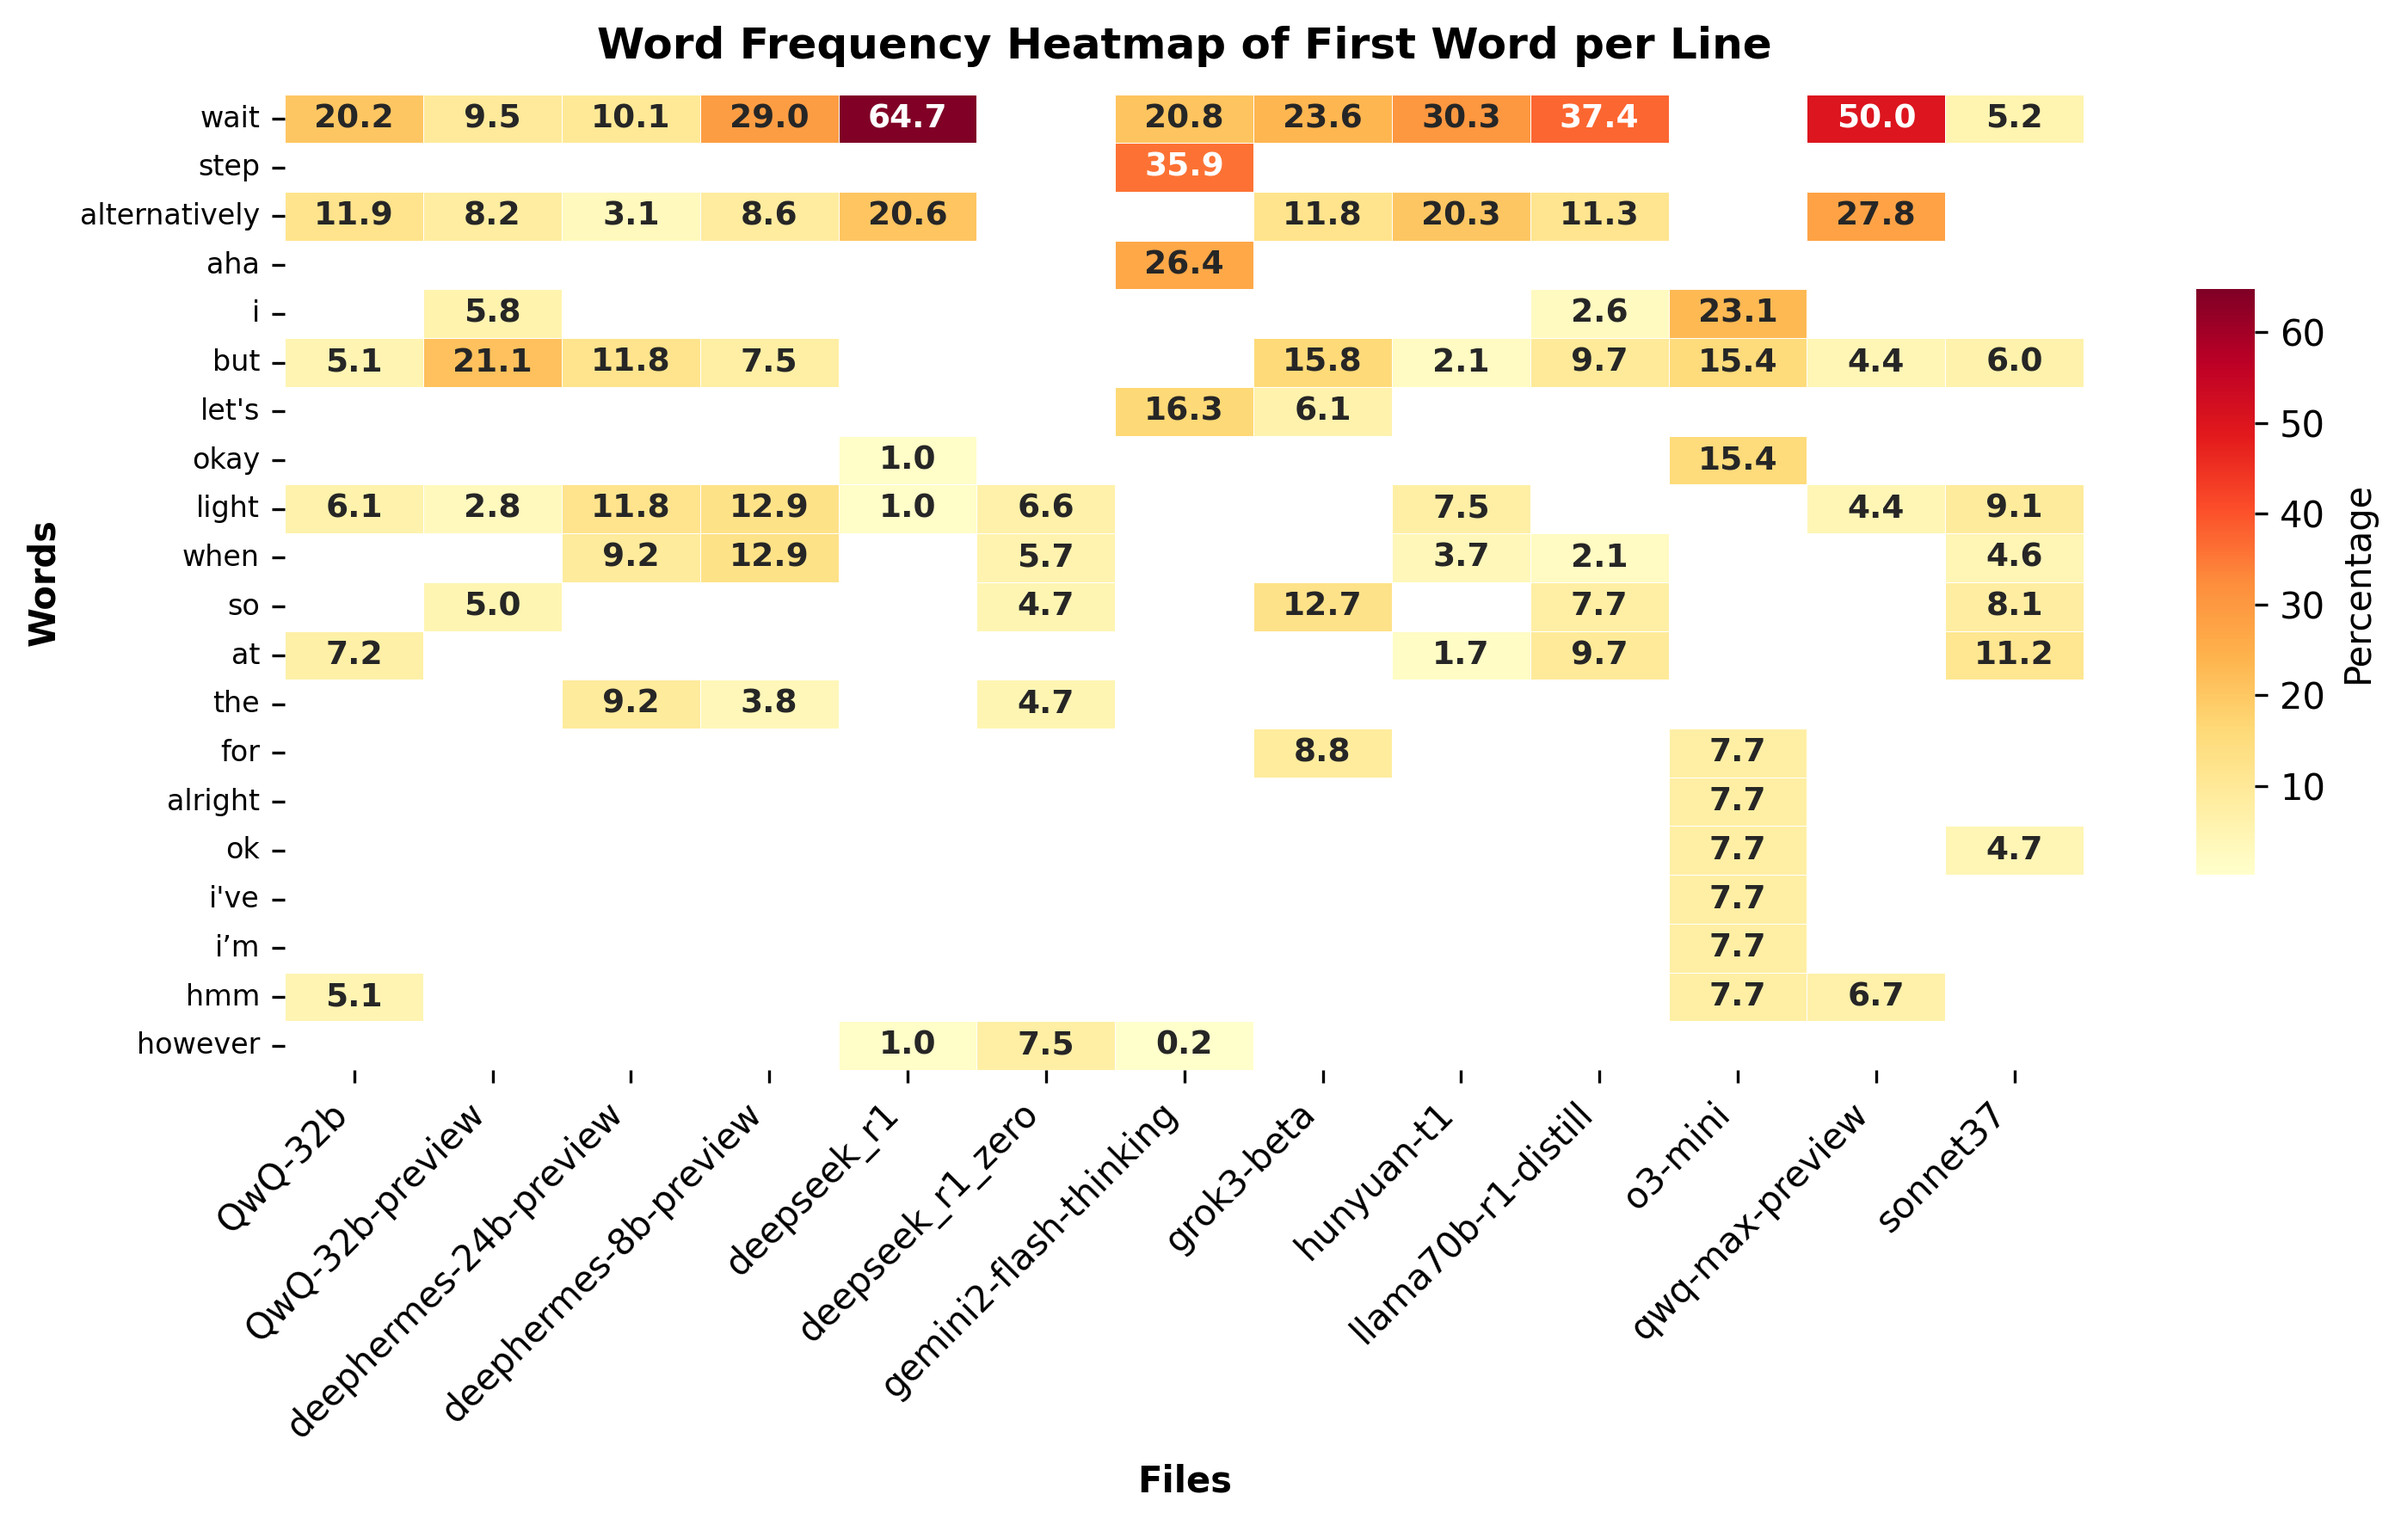
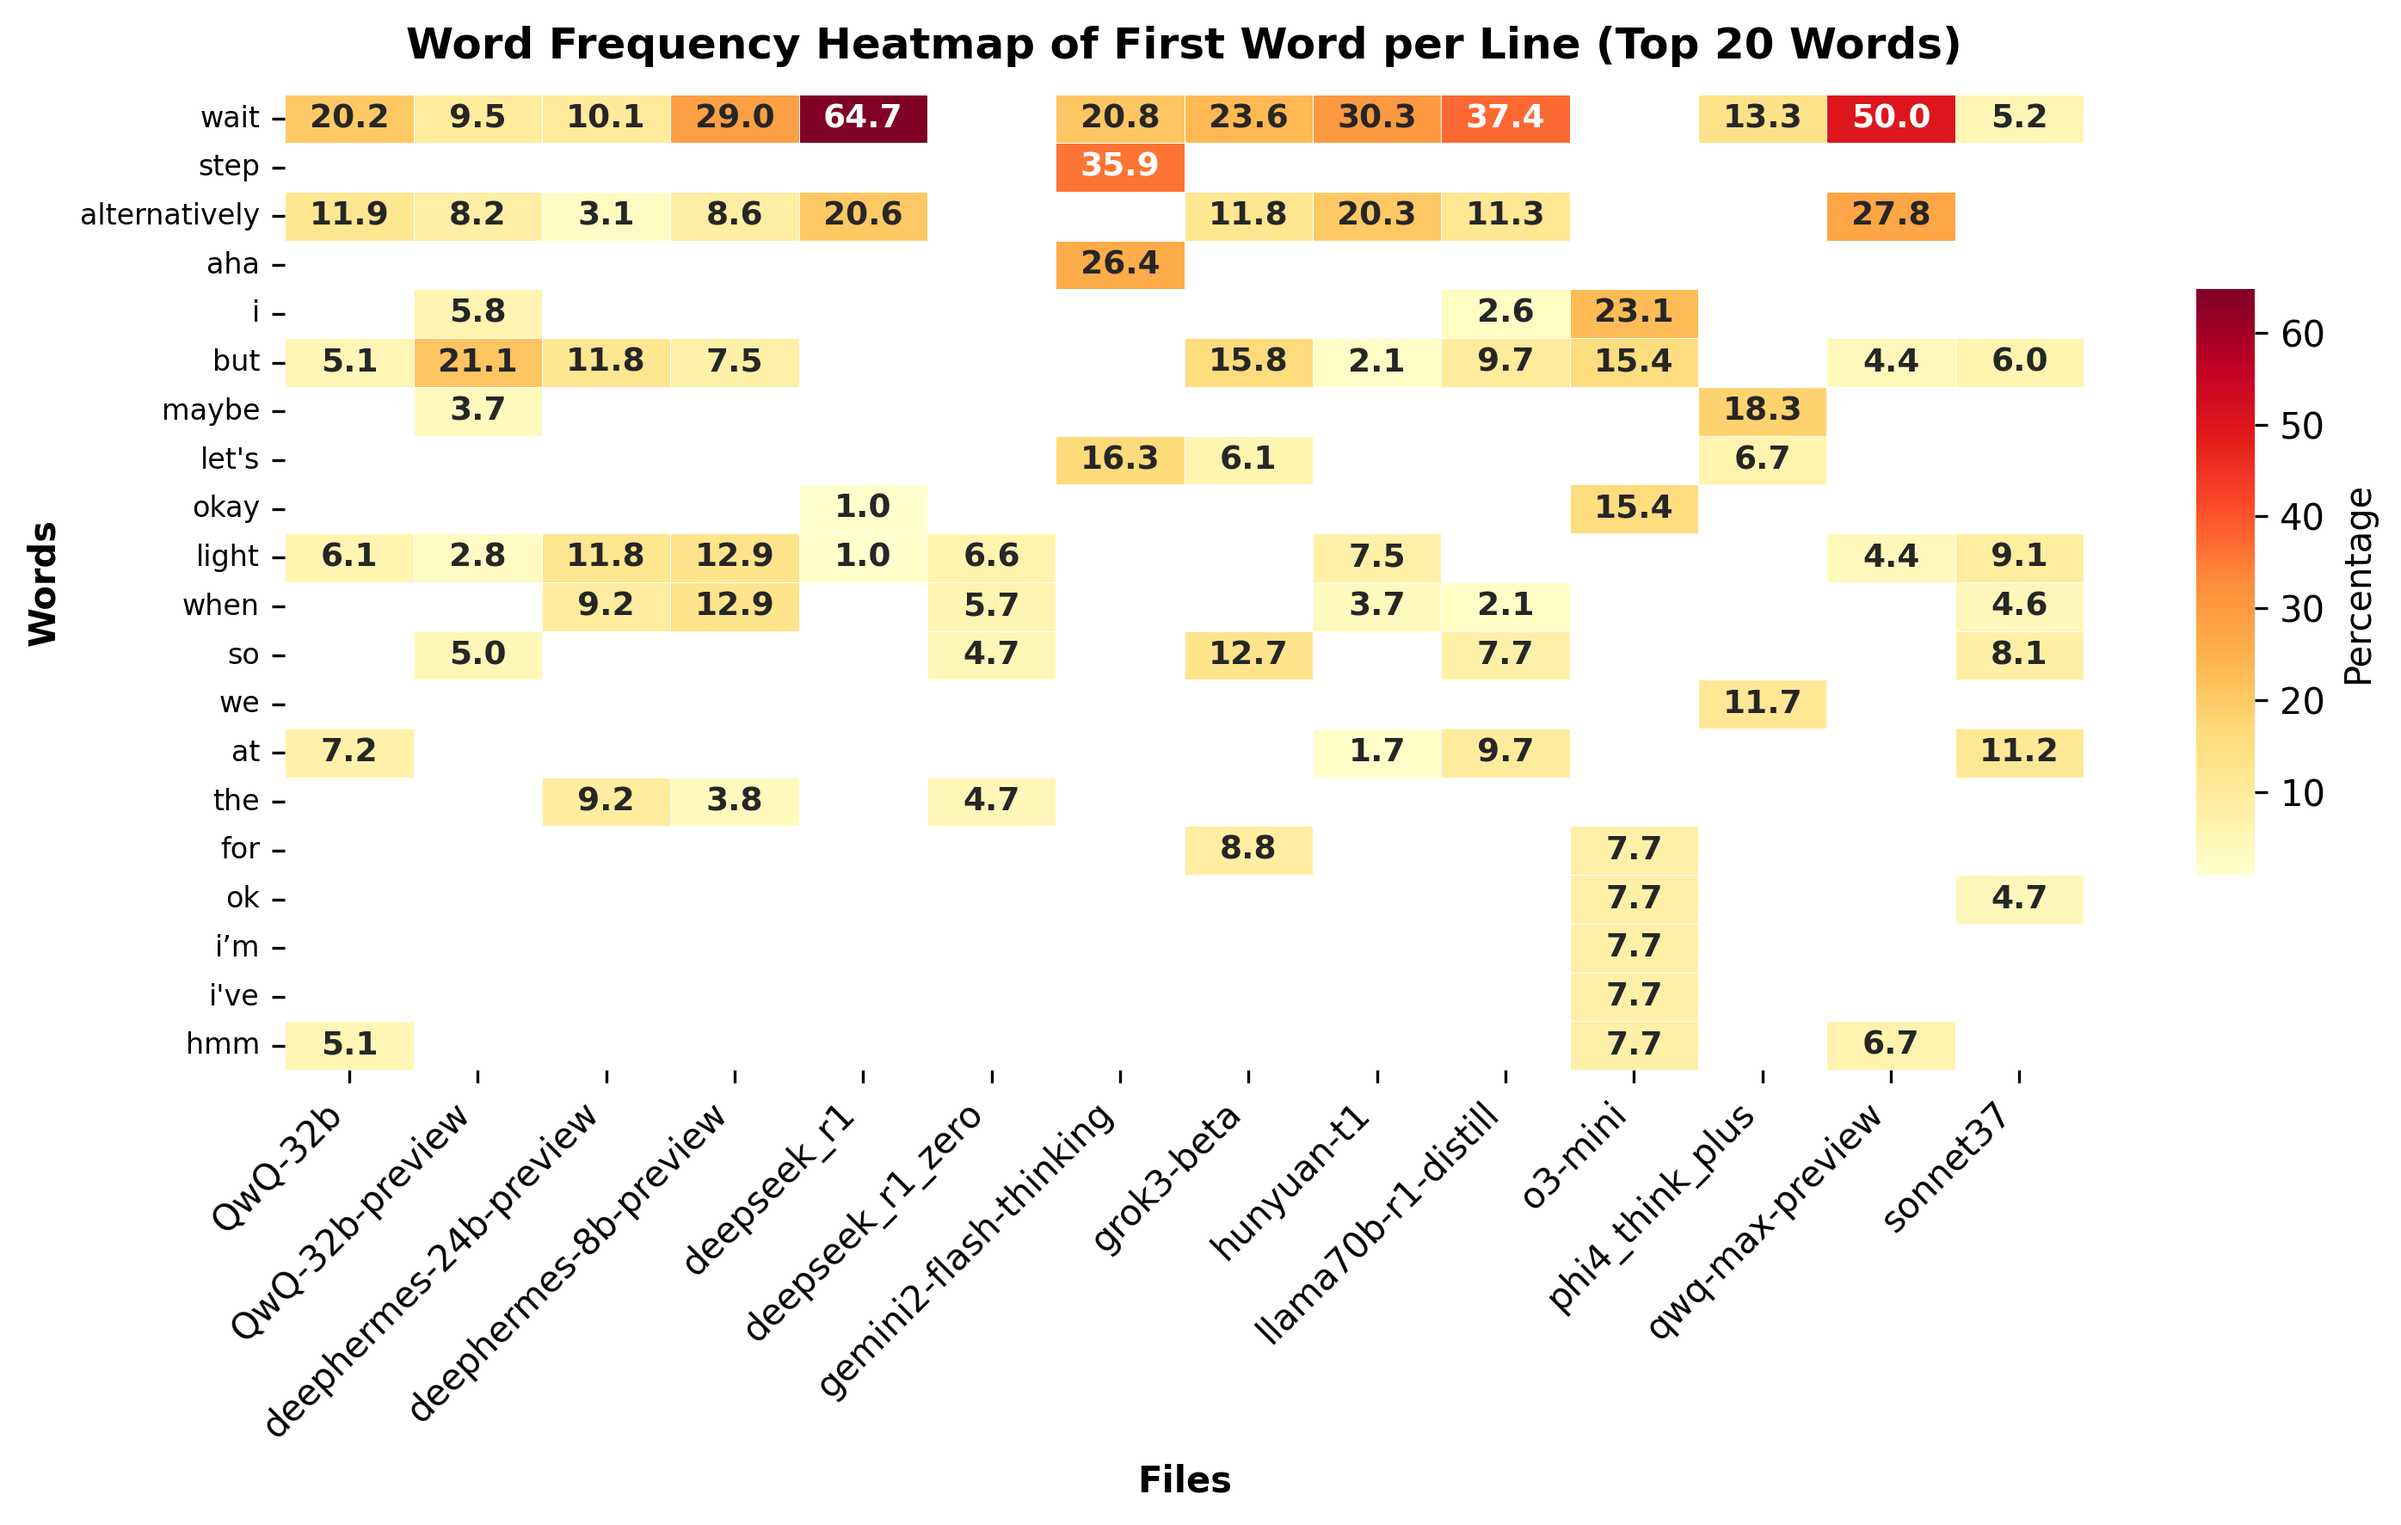
phi4

diff --git a/thinkingtraces/extract.py b/thinkingtraces/extract.py
@@ -27,7 +27,7 @@ def process_file(filepath):
         return percentages
 
 def print_histograms(file_histograms):
-    """Print histograms for all files as text and create comparison matrix."""
+    """Print histograms for all files as text and create comparison matrix and correlation heatmap."""
     # Get all unique words from top 10 of each file
     top_words = set()
     file_tops = {}
@@ -57,60 +57,80 @@ def print_histograms(file_histograms):
     
     # Create DataFrame with words as index, sorted by maximum percentage
     df = pd.DataFrame.from_dict(matrix_data, orient='index')
+    # Fill NaN with 0 for correlation calculation, but keep original df for frequency heatmap
+    df_filled = df.fillna(0) 
     df = df.reindex(df.max(axis=1).sort_values(ascending=False).index)
     
-    # Take only top 20 rows
-    df = df.head(20)
+    # Take only top 20 rows for frequency heatmap
+    df_freq = df.head(20)
 
-    # sort
-    df = df[sorted(df.columns)]
+    # sort columns for frequency heatmap
+    df_freq = df_freq[sorted(df_freq.columns)]
     
     print("\nComparison Matrix (percentages):")
     print("-" * 40)
-    print(df.round(2).to_string(na_rep=''))
+    print(df_freq.round(2).to_string(na_rep=''))
     
-    # Create a more compact heatmap visualization
-    # Create figure with tighter sizing
+    # --- Frequency Heatmap ---
     plt.figure(figsize=(10, 6))
     
     # Create mask for NaN values to leave them white
-    mask = df.isna()
+    mask_freq = df_freq.isna()
     
-    # Create the heatmap with improved styling for compactness
-    ax = sns.heatmap(
-        df,
+    # Create the frequency heatmap
+    ax_freq = sns.heatmap(
+        df_freq,
         annot=True,
         fmt='.1f',
         cmap='YlOrRd',
         cbar_kws={'label': 'Percentage', 'shrink': 0.6, 'aspect': 10},
         linewidths=0.2,
-        mask=mask,
+        mask=mask_freq,
         annot_kws={"size": 9, "weight": "bold"},
-        square=False  # Allow rectangular cells for better space usage
+        square=False
     )
     
-    # Improve title and labels with more compact styling
-    plt.title('Word Frequency Heatmap of First Word per Line', fontsize=12, fontweight='bold', pad=10)
+    plt.title('Word Frequency Heatmap of First Word per Line (Top 20 Words)', fontsize=12, fontweight='bold', pad=10)
     plt.ylabel('Words', fontsize=10, fontweight='bold', labelpad=5)
     plt.xlabel('Files', fontsize=10, fontweight='bold', labelpad=5)
-    
-    # Fix overlapping labels with more compact placement
     plt.xticks(rotation=45, ha='right', fontsize=10)
     plt.yticks(fontsize=8)
-    
-    # Move x-axis labels to the top
-    # ax.xaxis.tick_top()
-    # ax.xaxis.set_label_position('top')
-    
-    # Reduce padding around the plot
     plt.tight_layout(pad=1.0)
     
-    # Save the heatmap to a file before displaying
-    output_path = Path(os.path.dirname(os.path.abspath(__file__))) / "word_frequency_heatmap.png"
-    plt.savefig(output_path, dpi=300, bbox_inches='tight')
-    print(f"\nHeatmap saved to: {output_path}")
+    output_path_freq = Path(os.path.dirname(os.path.abspath(__file__))) / "word_frequency_heatmap.png"
+    plt.savefig(output_path_freq, dpi=300, bbox_inches='tight')
+    print(f"\nFrequency Heatmap saved to: {output_path_freq}")
     
-    # Show the plot
+    # --- Correlation Heatmap ---
+    # Calculate correlation matrix on the df_filled (NaNs as 0)
+    correlation_matrix = df_filled.corr()
+
+    plt.figure(figsize=(8, 6)) # Adjust size for correlation matrix
+    
+    # Create the correlation heatmap
+    ax_corr = sns.heatmap(
+        correlation_matrix,
+        annot=True,
+        fmt='.2f', # Show correlation values with 2 decimal places
+        cmap='coolwarm', # Use a diverging colormap for correlation
+        cbar_kws={'label': 'Correlation Coefficient', 'shrink': 0.7, 'aspect': 15},
+        linewidths=0.5,
+        linecolor='lightgray',
+        square=True # Keep correlation matrix square
+    )
+
+    plt.title('Cross-Correlation of First Word Statistics', fontsize=12, fontweight='bold', pad=10)
+    plt.ylabel('Files', fontsize=10, fontweight='bold', labelpad=5)
+    plt.xlabel('Files', fontsize=10, fontweight='bold', labelpad=5)
+    plt.xticks(rotation=45, ha='right', fontsize=9)
+    plt.yticks(rotation=0, fontsize=9) # Keep y-axis labels horizontal
+    plt.tight_layout(pad=1.0)
+
+    output_path_corr = Path(os.path.dirname(os.path.abspath(__file__))) / "word_correlation_heatmap.png"
+    plt.savefig(output_path_corr, dpi=300, bbox_inches='tight')
+    print(f"Correlation Heatmap saved to: {output_path_corr}")
+
+    # Show both plots
     plt.show()
 
 def main():
